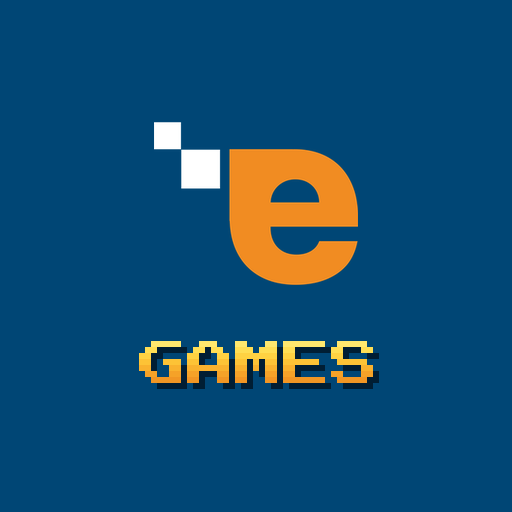
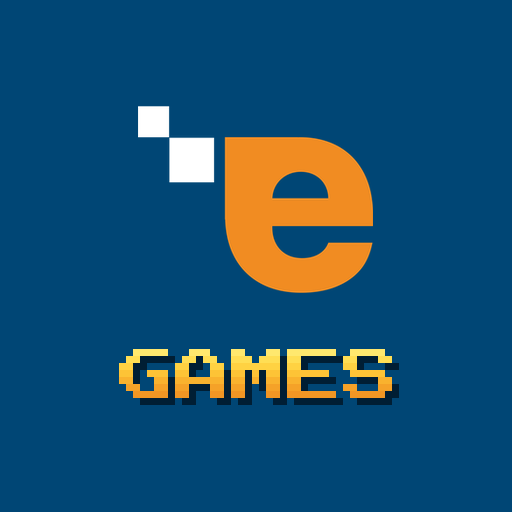
App: icona Android uguale a quella quadrata stondata
Claude-Session: https://claude.ai/code/session_01LdUZVoKfYuMV2hAhBE7cjt

Changed region(s): [[0.25, 0.1875, 0.75, 0.5938], [0.2188, 0.6562, 0.7812, 0.8125]]

diff --git a/.claude/skills/efuture-games/memoria.md b/.claude/skills/efuture-games/memoria.md
@@ -15,7 +15,7 @@ Niente segreti qui: niente codici di sblocco, chiave admin, password o dati dei 
 
 - A fine lavoro l'utente vuole che si pubblichi tutto su main (lo ha chiesto più volte il 12/10).
 - A fine livello il pulsante per andare avanti è sempre arancione e viene per primo.
-- Icona dell'app: solo la "e" di Efuture (quella della testa di Efuture Bros) su sfondo blu, senza la scritta efuture; sotto, "GAMES" in stile arcade anni '80 (13/10).
+- Icona dell'app: solo la "e" di Efuture (quella della testa di Efuture Bros) su sfondo blu, senza la scritta efuture; sotto, "GAMES" in stile arcade anni '80; forma quadrata con angoli stondati (13/10).
 
 - Risposte, commit e testi dell'app in **italiano**. Commit nello stile "Area: cosa cambia per chi usa l'app".
 - Se cambia un file del sito si aumenta la **versione** (`sw.js` efuture-games-vN, `?v=N` negli html, `· vN` in hub.js) con `/efuture-games-commit`, così i telefoni scaricano l'aggiornamento.
